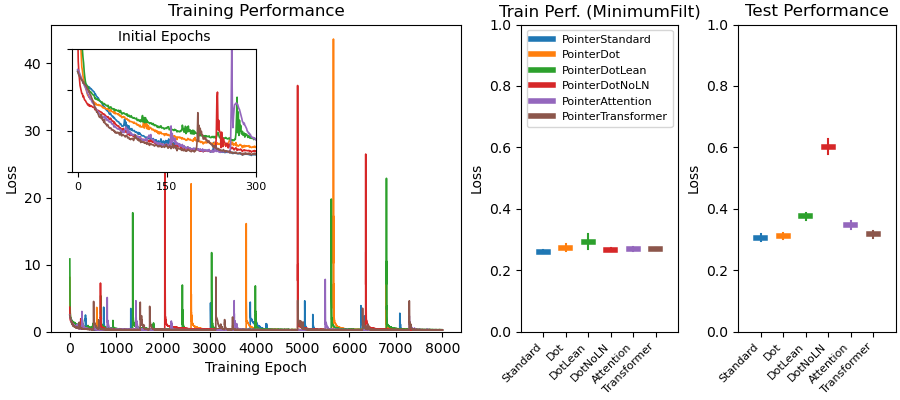
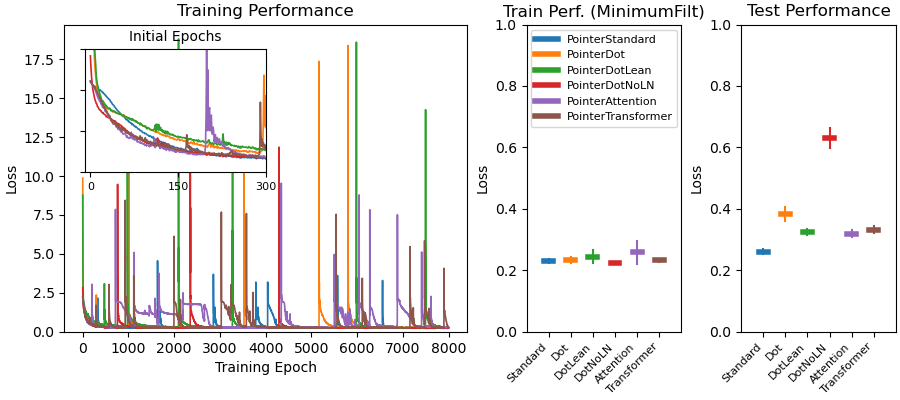
Adding TSP results

diff --git a/experiments/ptrArchComp_TSP_SL.py b/experiments/ptrArchComp_TSP_SL.py
@@ -46,10 +46,11 @@ def getFileName(extra=None):
 
 def handleArguments():
     parser = argparse.ArgumentParser(description='Run pointer demonstration.')
-    parser.add_argument('-nc','--num-cities', type=int, default=9, help='the number of cities')
+    parser.add_argument('-nc','--num-cities', type=int, default=8, help='the number of cities')
     parser.add_argument('-bs','--batch-size',type=int, default=128, help='number of sequences per batch')
     parser.add_argument('-ne','--train-epochs',type=int, default=8000, help='the number of training epochs')
     parser.add_argument('-te','--test-epochs',type=int, default=100, help='the number of testing epochs')
+    parser.add_argument('-nr','--num-runs',type=int, default=5, help='how many runs for each network to train')
 
     parser.add_argument('--embedding_dim', type=int, default=48, help='the dimensions of the embedding')
     parser.add_argument('--heads', type=int, default=1, help='the number of heads in transformer layers')
@@ -183,7 +184,6 @@ def plotResults(results, args):
     ax[0].set_ylim(0, None)
     yMin0, yMax0 = ax[0].get_ylim()
 
-    
     # create inset to show initial train trajectory
     inset = ax[0].inset_axes([0.05, 0.52, 0.45, 0.4])
     for idx, name in enumerate(POINTER_METHODS):
